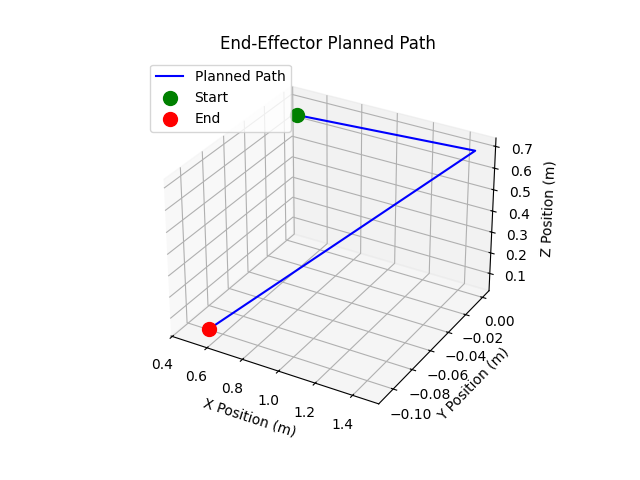
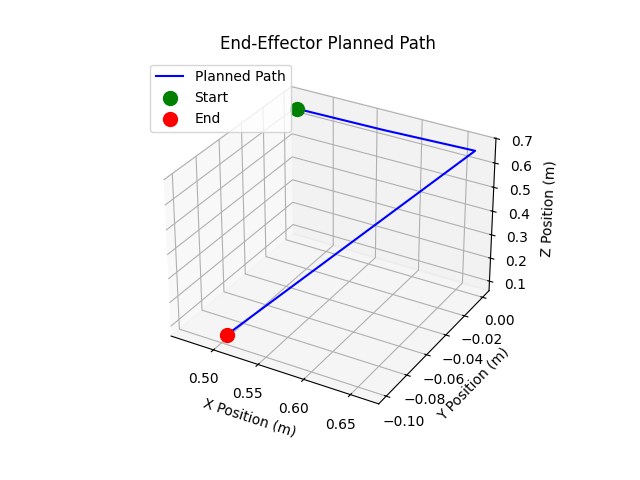
New plots

diff --git a/data/plot_plan_path_response.py b/data/plot_plan_path_response.py
@@ -7,15 +7,16 @@ CURRENT_DIR = os.path.dirname(os.path.abspath(__file__))
 
 
 def get_latest_csv_file():
-    name_template = "planned_path_"
-    files = [f for f in os.listdir(CURRENT_DIR) if f.startswith(
-        name_template) and f.endswith('.csv')]
-    if not files:
-        raise FileNotFoundError(
-            "No planned_path_<timestamp>.csv files found in 'data' directory.")
-    latest_file = max(files, key=lambda f: os.path.getctime(
-        os.path.join(CURRENT_DIR, f)))
-    return os.path.join(CURRENT_DIR, latest_file)
+    return "planned_path.csv"
+    # name_template = "planned_path_"
+    # files = [f for f in os.listdir(CURRENT_DIR) if f.startswith(
+    #     name_template) and f.endswith('.csv')]
+    # if not files:
+    #     raise FileNotFoundError(
+    #         "No planned_path_<timestamp>.csv files found in 'data' directory.")
+    # latest_file = max(files, key=lambda f: os.path.getctime(
+    #     os.path.join(CURRENT_DIR, f)))
+    # return os.path.join(CURRENT_DIR, latest_file)
 
 
 def extrapolate_accel(df):
